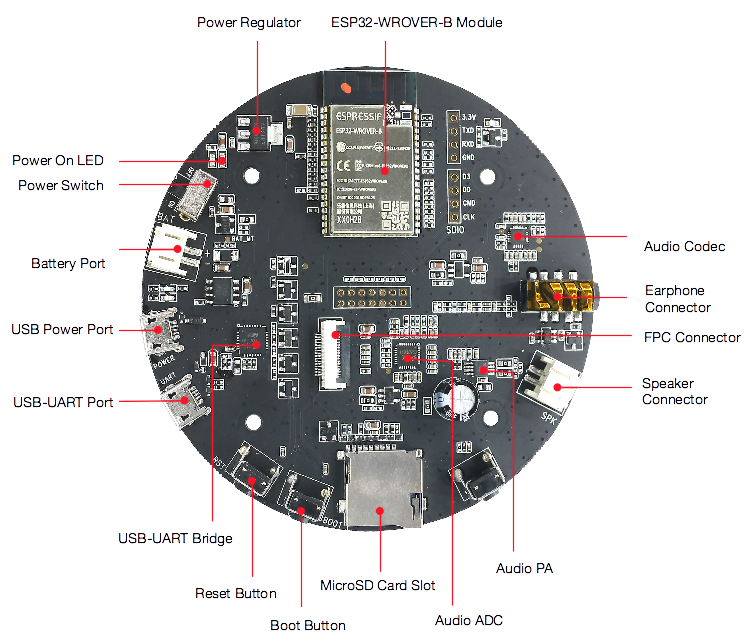
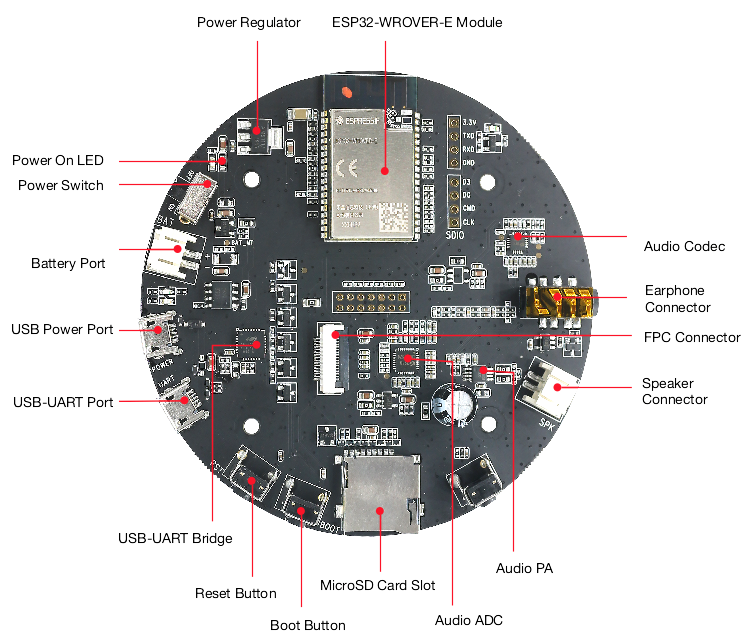
Changed ESP32-WROVER-B to ESP32-WORVER-E

diff --git a/docs/en/hw-reference/esp32/user-guide-esp32-korvo-v1.1.md b/docs/en/hw-reference/esp32/user-guide-esp32-korvo-v1.1.md
@@ -21,7 +21,7 @@ This section describes how to get started with ESP32-Korvo V1.1. It begins with 
 
 ## 1.1 Overview
 
-ESP32-Korvo V1.1 consists of two boards connected by an FPC cable: one mainboard containing an ESP32-WROVER-B module, a USB power port, a micro SD card slot, an earphone connector and a speaker connector, and one subboard containing microphone arrays, function buttons and RGB LEDs.
+ESP32-Korvo V1.1 consists of two boards connected by an FPC cable: one mainboard containing an ESP32-WROVER-E module, a USB power port, a micro SD card slot, an earphone connector and a speaker connector, and one subboard containing microphone arrays, function buttons and RGB LEDs.
 
 Unlike other Espressif's audio development boards, ESP32-Korvo V1.1 achieves far-field offline speech recoginition with a single ESP32 chip. The board can be equipped with either two or three microphone arrays. Combined with beamforming, AEC and other speech enhancement algorithms, it applies to various speech-recognition scenarios. 
 
@@ -41,7 +41,7 @@ For retail orders, please go to <https://www.espressif.com/en/company/contact/bu
 
 ### 1.2.2 Wholesale Orders
 
-If you order in bulk, the baords come in large cardboard boxes.
+If you order in bulk, the boards come in large cardboard boxes.
 
 For wholesale orders, please check [Espressif Product Ordering Information](https://www.espressif.com/sites/default/files/documentation/espressif_products_ordering_information_en.pdf) (PDF).
 
@@ -58,12 +58,12 @@ For wholesale orders, please check [Espressif Product Ordering Information](http
 
 |Key Componenet|Description|
 |:- |:- |
-|ESP32-WROVER-B|This ESP32 module contains an ESP32 chip to provide Wi-Fi / BT connectivity and data processing power. It integrates 64 Mbit SPI flash and 128 Mbit PSRAM for flexible data storage.|
+|ESP32-WROVER-E|This ESP32 module contains the latest ESP32-D0WD-V3, a 16 MB flash and a 8 MB PSRAM for flexible data storage, featuring Wi-Fi / BT connectivity and data processing capability.|
 |Power Regulator|5V-to-3.3V regulator.|
 |Power Switch|On: The board is powered on; Off: The board is powered off.|
 |Battery Port|Connect a battery.|
 |USB Power Port|Supply power to the board.|
-|USB-UART Port|A communication interface between a computer and the ESP32-WROVER-B module.|
+|USB-UART Port|A communication interface between a computer and the ESP32-WROVER-E module.|
 |USB-UART Bridge|Single USB-UART bridge chip provides transfer rates of up to 3 Mbps.| check
 |Reset Button|Pressing this button resets the system.|
 |Boot Button|Download button. Holding down Boot and then pressing EN initiates Firmware Download mode for downloading firmware through the serial port.|
@@ -139,6 +139,5 @@ A block diagram below shows the components of ESP32-Korvo V1.1 and their interco
 * [ESP32-Korvo V1.1 Mic Schematics](https://dl.espressif.com/dl/schematics/ESP32-KORVO-MIC_V1.1_schematics.pdf) (PDF)
 * [ESP32-Korvo V1.1 Reference Design](https://www.espressif.com/sites/default/files/documentation/ESP32-Korvo_V1.1_Reference_Design_0.zip) (ZIP)
 * [ESP32 Datasheet](https://www.espressif.com/sites/default/files/documentation/esp32_datasheet_en.pdf) (PDF)
-* [ESP32-WROVER-B Datasheet](https://www.espressif.com/sites/default/files/documentation/esp32-wrover-b_datasheet_en.pdf)(PDF)
-* [ESP32-WROVER-B V1.0 Reference Design](https://www.espressif.com/sites/default/files/documentation/ESP32-WROVER-B_Reference_Design_V1-r1.0_0.zip) (ZIP)
+* [ESP32-WROVER-E & ESP32-WROVER-IE Datasheet](https://www.espressif.com/sites/default/files/documentation/esp32-wrover-e_esp32-wrover-ie_datasheet_en.pdf) (PDF)
 * [Espressif Product Ordering Information](https://www.espressif.com/sites/default/files/documentation/espressif_products_ordering_information_en.pdf) (PDF)
